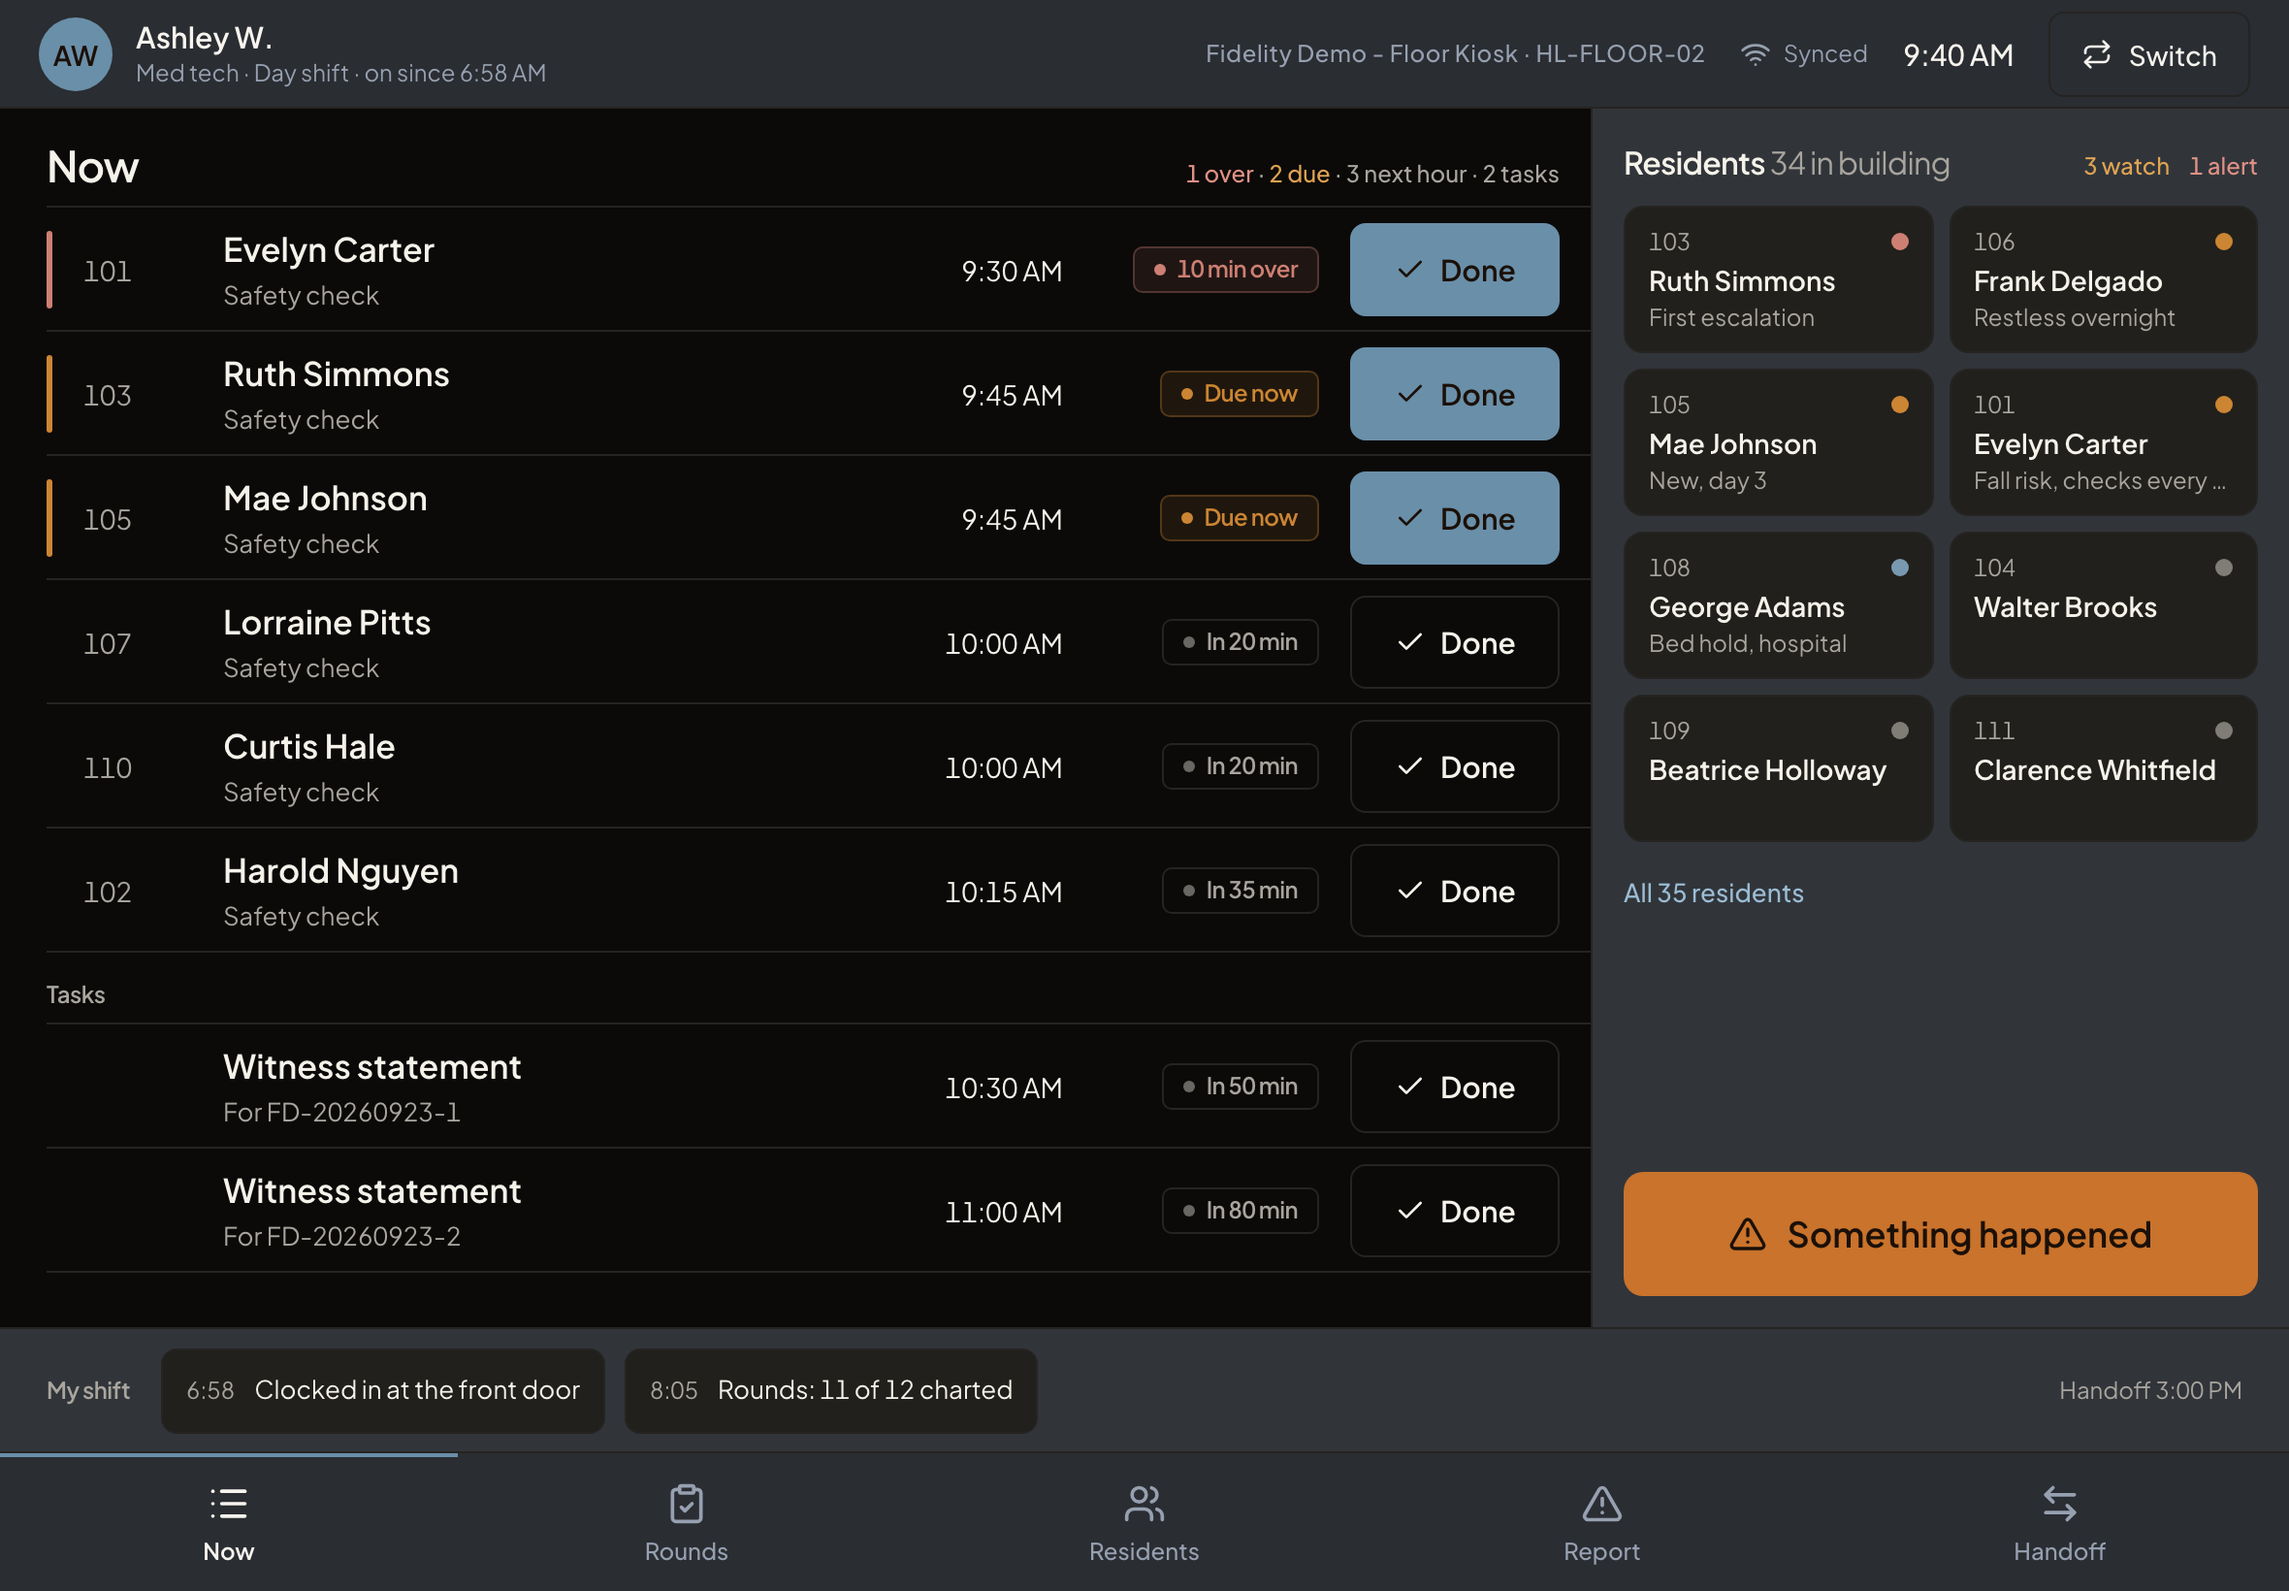
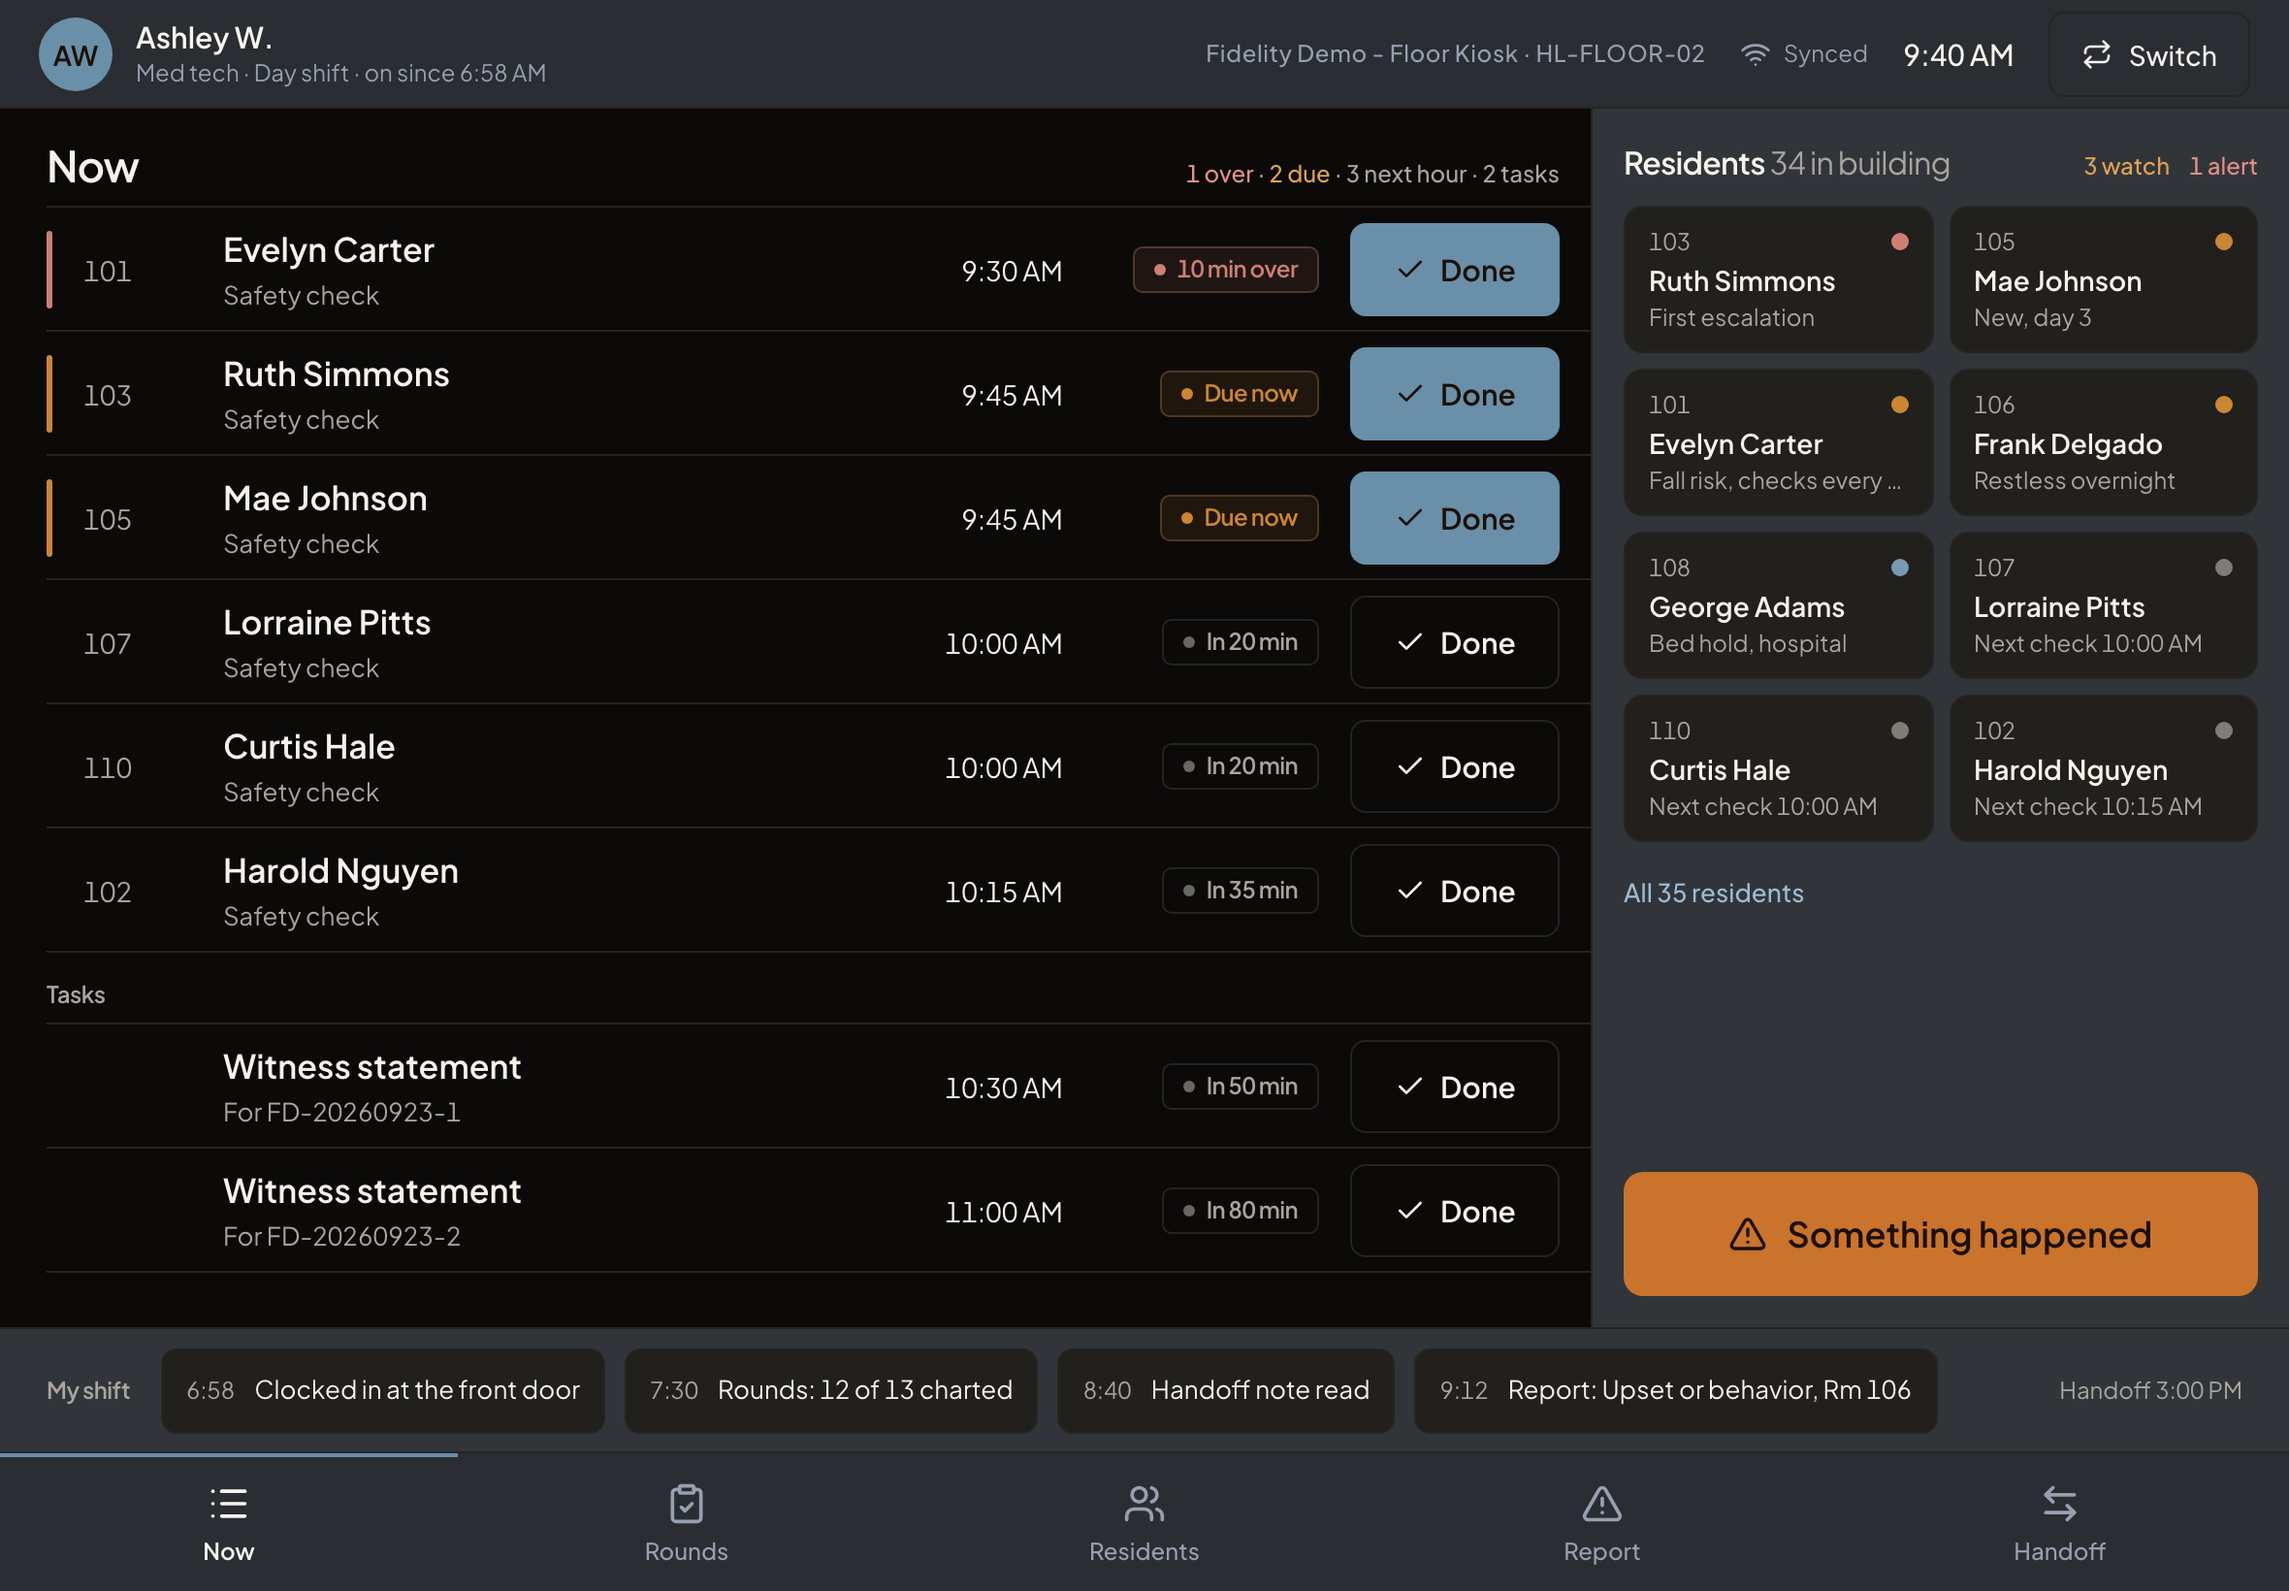
test(floor,kiosk): oracle review — strict offline replay proof, own-session checks, prototype strip and rail data (COL-694)
- item 4 holds the replay until the second person is on /floor, then proves the first person's offline check lands as theirs (offline_synced) with no further lock or unlock
- item 3 asserts the second person's strip, tasks and sync state show nothing of the first person's
- seed: prototype my-shift activity (7:30 round, 8:40 handoff note read, 9:12 report); teardown covers handoff notes
- all 20 states recaptured on the final build; FIDELITY row 03 updated

diff --git a/tests/floor-kiosk/03-offline-replay.spec.ts b/tests/floor-kiosk/03-offline-replay.spec.ts
@@ -28,15 +28,22 @@ for (const orientation of ORIENTATIONS) {
         await navigator.serviceWorker.ready;
       });
 
-      const chartMae = page.getByRole("link", { name: "Chart safety check for Mae Johnson" }).or(page.getByRole("button", { name: "Chart safety check for Mae Johnson" })).first();
+      const chartMae = page.getByRole("link", { name: /chart safety check for Mae Johnson/i }).or(page.getByRole("button", { name: /chart safety check for Mae Johnson/i })).first();
       await chartMae.click();
       await expect(page).toHaveURL(/\/floor\/check\//);
       // The screen has loaded (places come from the server) before the network drops.
       const places = page.getByRole("group", { name: /where (is she|are they)/i }).getByRole("button");
       await expect(places.first()).toBeVisible();
+      // From here the tablet runs on the real clock. The frozen 9:40 AM only
+      // found Mae's row; a queued item carries its capture time, and the replay
+      // accepts it only inside Ashley's unlock (real server time), exactly as a
+      // real tablet's clock would be.
+      await page.clock.setFixedTime(new Date());
       await context.setOffline(true);
       await page.getByRole("button", { name: /^calm$/i }).click();
       await places.first().click();
+      const lateReason = page.getByLabel(/why late/i);
+      if (await lateReason.isVisible().catch(() => false)) await lateReason.fill("With another resident");
       await page.getByRole("button", { name: /save check/i }).click();
       // The top bar's sync state (useFloorSyncState): the check is queued on this tablet.
       await expect(page.getByRole("banner").getByRole("status")).toContainText("Offline, 1 waiting");
@@ -66,30 +73,53 @@ for (const orientation of ORIENTATIONS) {
       );
       expect(queued).toBe(1);
 
-      // The network returns; Dana unlocks the same tablet; the device replay
-      // writes Ashley's check as Ashley.
+      // Mae's charted checks before anything can replay.
+      const admin = adminClient();
+      const maeLogs = async () => {
+        const logs = await admin
+          .from("resident_observation_logs")
+          .select("id, staff_id, entry_mode, created_at")
+          .eq("facility_id", seed.facilityId)
+          .eq("resident_id", seed.residents.mae.id)
+          .is("deleted_at", null)
+          .order("created_at", { ascending: false });
+        expect(logs.error).toBeNull();
+        return logs.data ?? [];
+      };
+      const before = (await maeLogs()).length;
+
+      // Until Dana's /floor is up, nothing may write Ashley's check: the device
+      // replay and the completion route are held at the network (context routes
+      // cover the service worker's fetches too), and every attempt is counted.
+      let heldAttempts = 0;
+      const held = ["**/api/floor/replay", "**/api/rounding/tasks/*/complete"];
+      for (const pattern of held) {
+        await context.route(pattern, async (route) => {
+          heldAttempts += 1;
+          await route.abort("internetdisconnected");
+        });
+      }
+
+      // The network returns; Dana unlocks the same tablet.
       await context.setOffline(false);
       await expect(page).toHaveURL(/\/floor\/lock/, { timeout: 30_000 });
       const retry = page.getByRole("button", { name: "Try again" });
       if (await retry.isVisible().catch(() => false)) await retry.click();
       await unlockFloor(page, "dana");
+      await expect(page.getByRole("banner").getByText("Dana R.")).toBeVisible();
+      expect((await maeLogs()).length, "nothing wrote Ashley's check before Dana unlocked").toBe(before);
+      expect(heldAttempts, "the tablet tried to replay the queued check").toBeGreaterThan(0);
 
-      const admin = adminClient();
+      // Lift the hold with Dana signed in: the device replay writes Ashley's
+      // check as Ashley, marked as an offline capture.
+      for (const pattern of held) await context.unroute(pattern);
+      await context.setOffline(true);
+      await context.setOffline(false);
       await expect
-        .poll(
-          async () => {
-            const logs = await admin
-              .from("resident_observation_logs")
-              .select("staff_id, entry_mode")
-              .eq("facility_id", seed.facilityId)
-              .eq("resident_id", seed.residents.mae.id)
-              .order("created_at", { ascending: false })
-              .limit(1);
-            return logs.data?.[0]?.staff_id ?? null;
-          },
-          { timeout: 60_000 },
-        )
-        .toBe(seed.people.ashley.staffId);
+        .poll(async () => (await maeLogs()).length, { timeout: 90_000, message: "the queued check replayed after Dana unlocked" })
+        .toBe(before + 1);
+      const [latest] = await maeLogs();
+      expect(latest).toMatchObject({ staff_id: seed.people.ashley.staffId, entry_mode: "offline_synced" });
     });
   });
 }

diff --git a/tests/floor-kiosk/02-shared-tablet.spec.ts b/tests/floor-kiosk/02-shared-tablet.spec.ts
@@ -23,7 +23,7 @@ for (const orientation of ORIENTATIONS) {
       await expect(page.getByRole("banner").getByText("Ashley W.")).toBeVisible();
 
       // Chart the overdue 9:30 check (late reason required when over).
-      await page.getByRole("link", { name: "Chart safety check for Evelyn Carter" }).or(page.getByRole("button", { name: "Chart safety check for Evelyn Carter" })).first().click();
+      await page.getByRole("link", { name: /chart safety check for Evelyn Carter/i }).or(page.getByRole("button", { name: /chart safety check for Evelyn Carter/i })).first().click();
       await expect(page).toHaveURL(/\/floor\/check\//);
       await page.getByRole("button", { name: /^awake$/i, pressed: false }).click();
       await page.getByRole("group", { name: /where (is she|are they)/i }).getByRole("button").first().click();
@@ -45,6 +45,16 @@ for (const orientation of ORIENTATIONS) {
       await unlockFloor(page, "dana");
       await expect(page.getByRole("banner").getByText("Dana R.")).toBeVisible();
       await expect(page.getByRole("banner").getByText("Ashley W.")).toHaveCount(0);
+      // Only Dana's session: her clock-in (6:52) on the strip, none of Ashley's
+      // activity, none of Ashley's witness statements, nothing of Ashley's unsent.
+      const strip = page.getByRole("region", { name: /my shift/i }).or(page.getByLabel(/my shift/i)).first();
+      await expect(strip).toContainText("6:52");
+      await expect(strip).toContainText("Clocked in at the front door");
+      await expect(strip).not.toContainText("6:58");
+      await expect(strip).not.toContainText("Report:");
+      await expect(page.getByRole("link", { name: /answer the witness statement/i }).or(page.getByRole("button", { name: /answer the witness statement/i }))).toHaveCount(0);
+      await expect(page.getByText("Witness statement", { exact: true })).toHaveCount(0);
+      await expect(page.getByRole("banner").getByRole("status")).toContainText("Synced");
 
       // Evelyn's page on Dana's session (in-app navigation: a page load is a
       // hidden screen, which locks the tablet by design) shows the check

diff --git a/tests/floor-kiosk/05-axe.spec.ts b/tests/floor-kiosk/05-axe.spec.ts
@@ -53,9 +53,9 @@ for (const orientation of ORIENTATIONS) {
 
       // In-app navigation only: a page load is a hidden screen and locks the tablet.
       const tab = (name: string) => page.getByRole("navigation").getByRole("link", { name, exact: true });
-      await expect(page.getByRole("link", { name: "Chart safety check for Evelyn Carter" })).toBeVisible();
+      await expect(page.getByRole("link", { name: /chart safety check for Evelyn Carter/i })).toBeVisible();
       await expectNoAxeViolations(page, "/floor");
-      await page.getByRole("link", { name: "Chart safety check for Evelyn Carter" }).click();
+      await page.getByRole("link", { name: /chart safety check for Evelyn Carter/i }).click();
       await expect(page).toHaveURL(/\/floor\/check\//);
       await expect(page.getByRole("button", { name: /save check/i })).toBeVisible();
       await expectNoAxeViolations(page, "/floor/check/[taskId]");

diff --git a/docs/designs/floor-tablet-kiosk/FIDELITY.md b/docs/designs/floor-tablet-kiosk/FIDELITY.md
@@ -24,7 +24,7 @@ Sizes were measured live against `DESIGN.md` §1 after the px scale fix (the app
 | 01-floor-lock | MATCH | §2.1 to §2.4. "Last on this tablet" in sentence case; "2 unsent" as a warning `StatusPill`. Data: facility name. |
 | 02-floor-pin | MATCH | §2.1, §2.4 (avatar and dots in the house primary). |
 | 02b-floor-pin-ready | MATCH | §2.1, §2.4 (Unlock in the house primary with dark text). |
-| 03-floor-now | MATCH | §2.1 to §2.4. Spec: the Tasks rows are the person's open witness statements (spec 40 §6.3 "the signed-in person's assigned tasks"; Haven has no staff task list with due times, so "Water pitchers" and "Shower assist" cannot exist). Data: check sub-lines read "Safety check" (no other check kind in the data), rail tile order and notes come from real escalations, watches and holds, "All 35 residents" counts George Adams on hospital hold, the round chip reads "8:05 Rounds: 11 of 12 charted" (Ruth's 8:00 check is charted but unassigned, so it is not counted as hers). |
+| 03-floor-now | MATCH | §2.1 to §2.4. Rail shows the eight prototype residents with their notes; strip shows clock-in, "7:30 Rounds: 12 of 13 charted", "8:40 Handoff note read", "9:12 Report: Upset or behavior, Rm 106" and "Handoff 3:00 PM". Spec: the Tasks rows are the person's open witness statements (spec 40 §6.3 "the signed-in person's assigned tasks"; Haven has no staff task list with due times, so "Water pitchers" and "Shower assist" cannot exist); the strip carries the chip kinds spec 40 §6.3 names (clock-in, rounds charted, reports filed, handoff read, handoff time), so the prototype's "Follow-up, Ruth S." chip has no source. Data: check sub-lines read "Safety check" (no other check kind in the data); "12 of 13" counts the overdue 9:30 check as due; rail notes come from real escalations, watches, holds and next checks; "All 35 residents" counts George Adams on hospital hold. |
 | 04-floor-resident | MATCH | §2.1 to §2.4. Data: the seeded watch, follow-up and know-before-you-go-in fields (one watch; "High fall risk", "Walker within reach", special instructions) instead of the prototype's sample lines. Charted-by names come from `floor_staff_display_names`. |
 | 05-floor-check | MATCH | §2.1 to §2.4. Same chips, same selections (Awake, In chair, Offered fluids). "Refused help" wraps to a second row (§2.1 wider face). |
 | 06-floor-something-happened | MATCH | §2.1, §2.3, §2.4. Medicine uses lucide `Pill` as `DESIGN.md` §4 specifies. |
